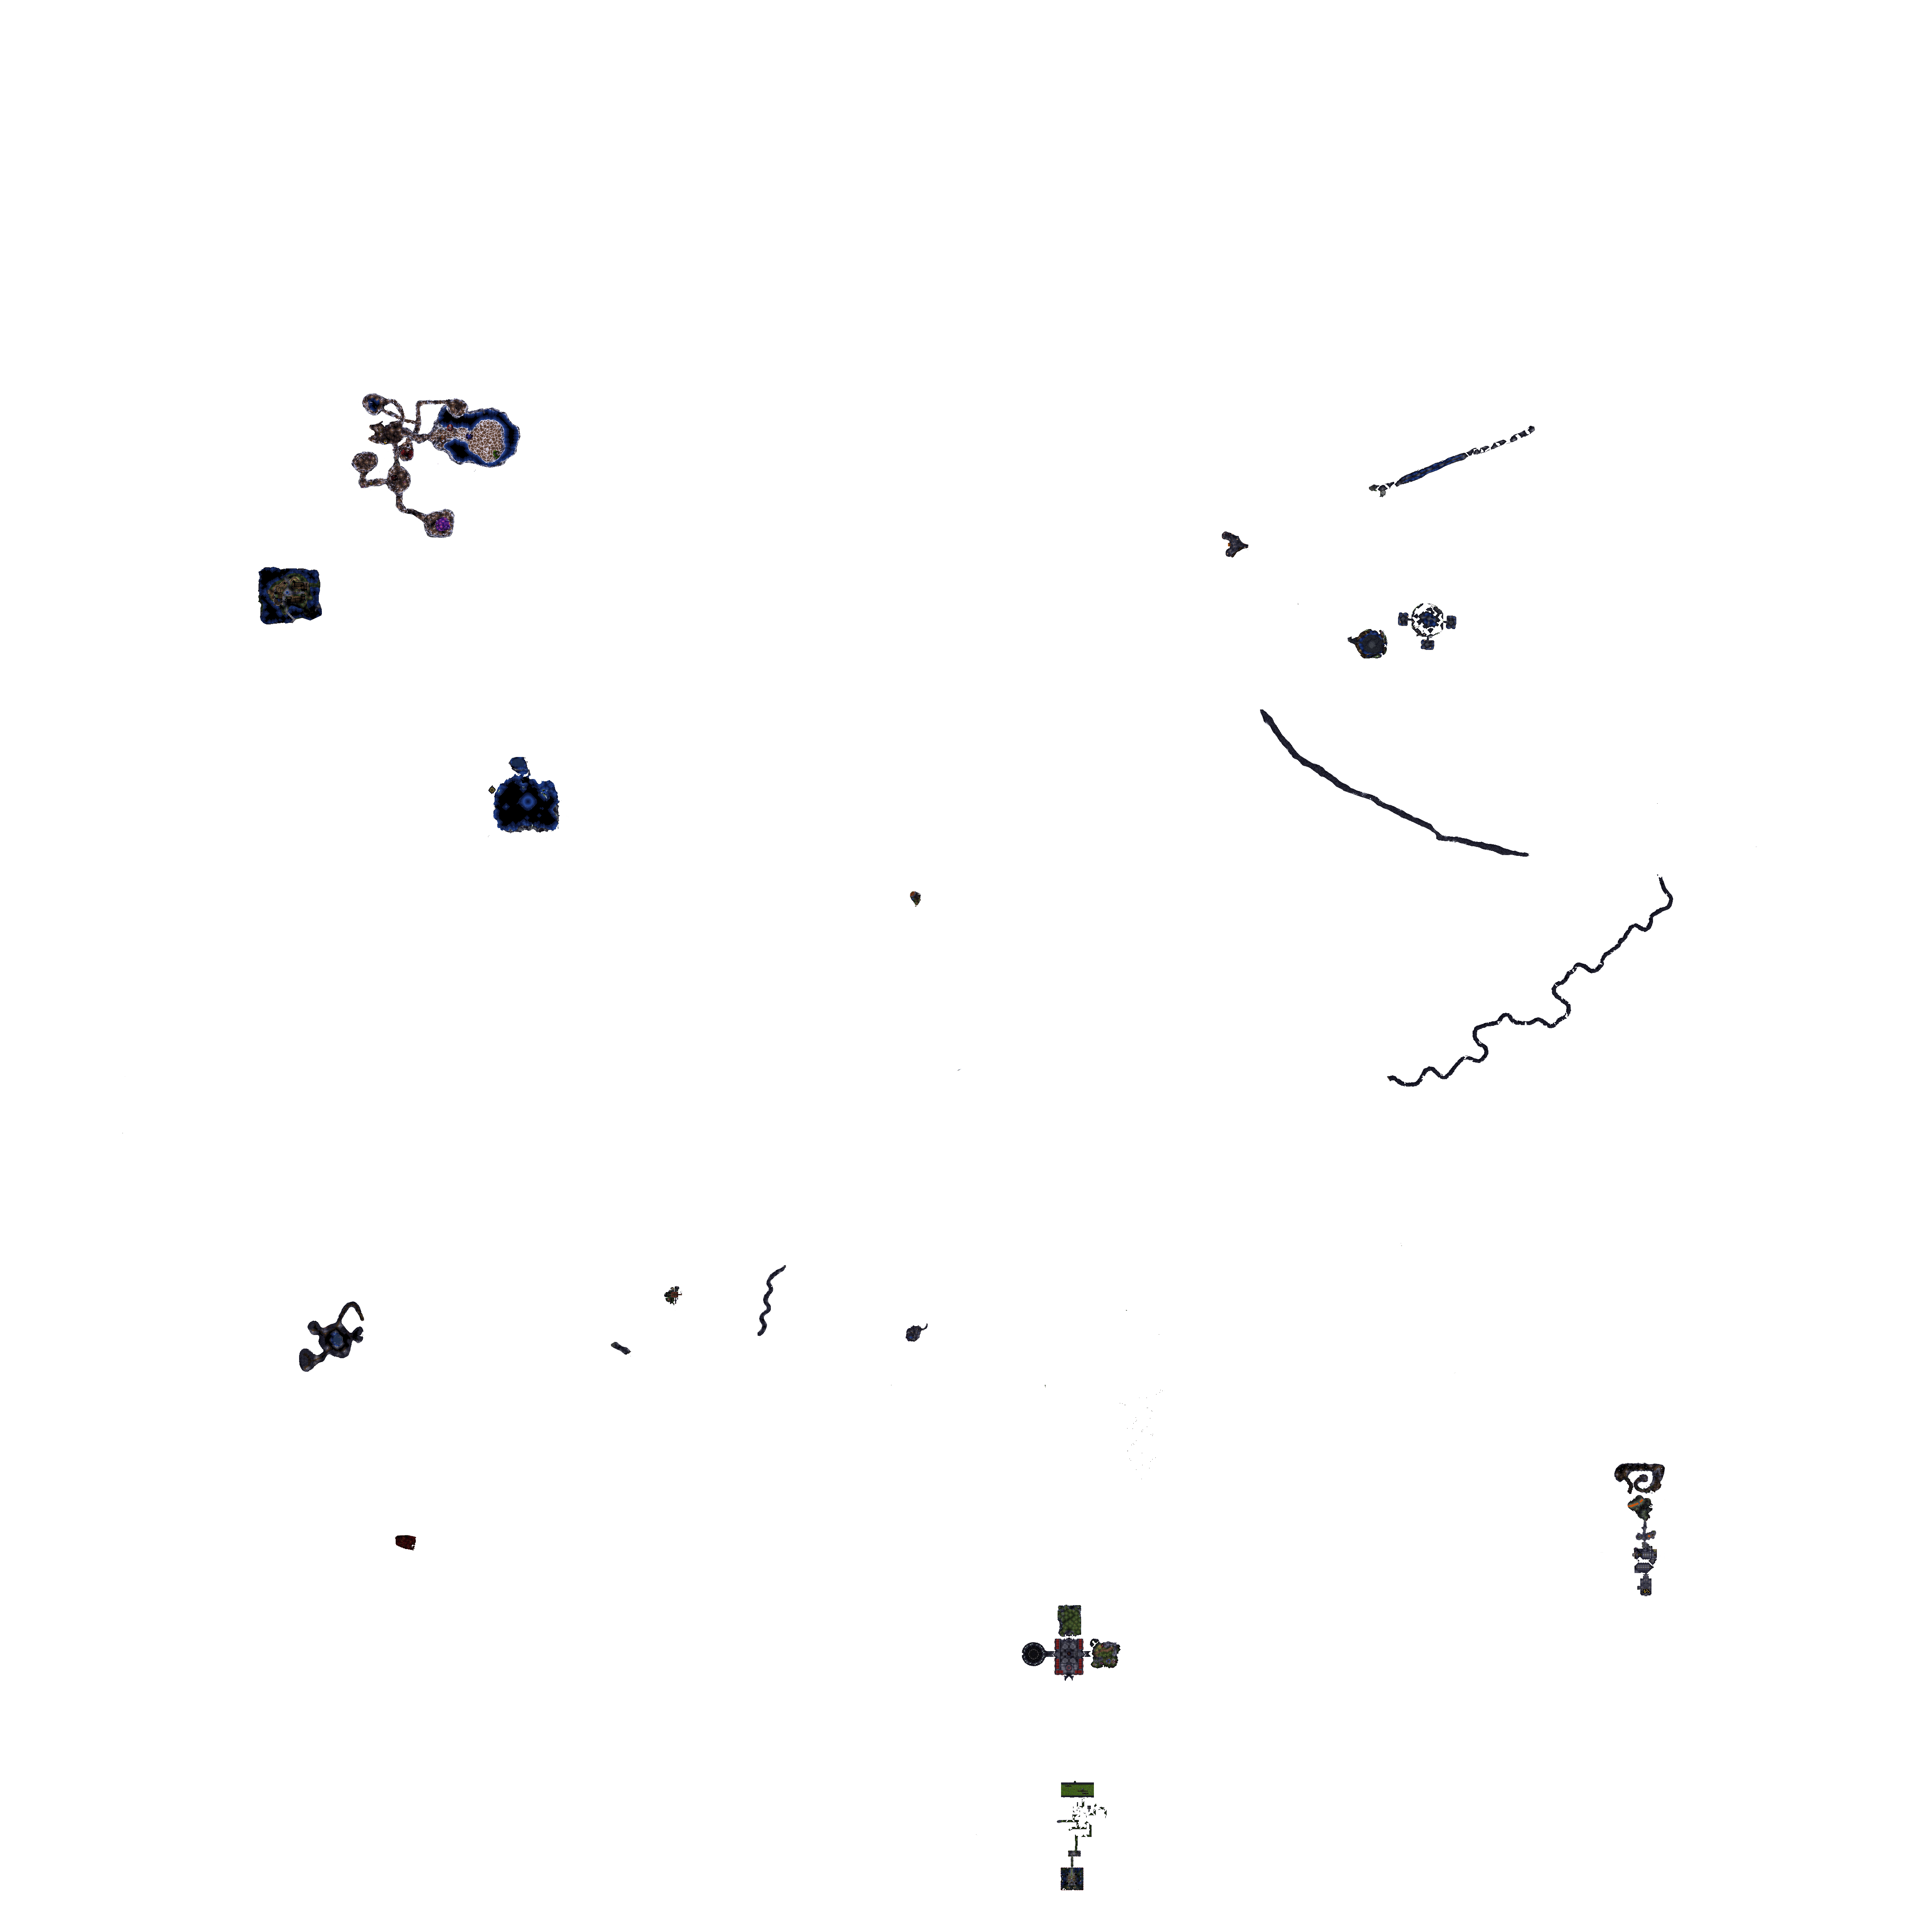
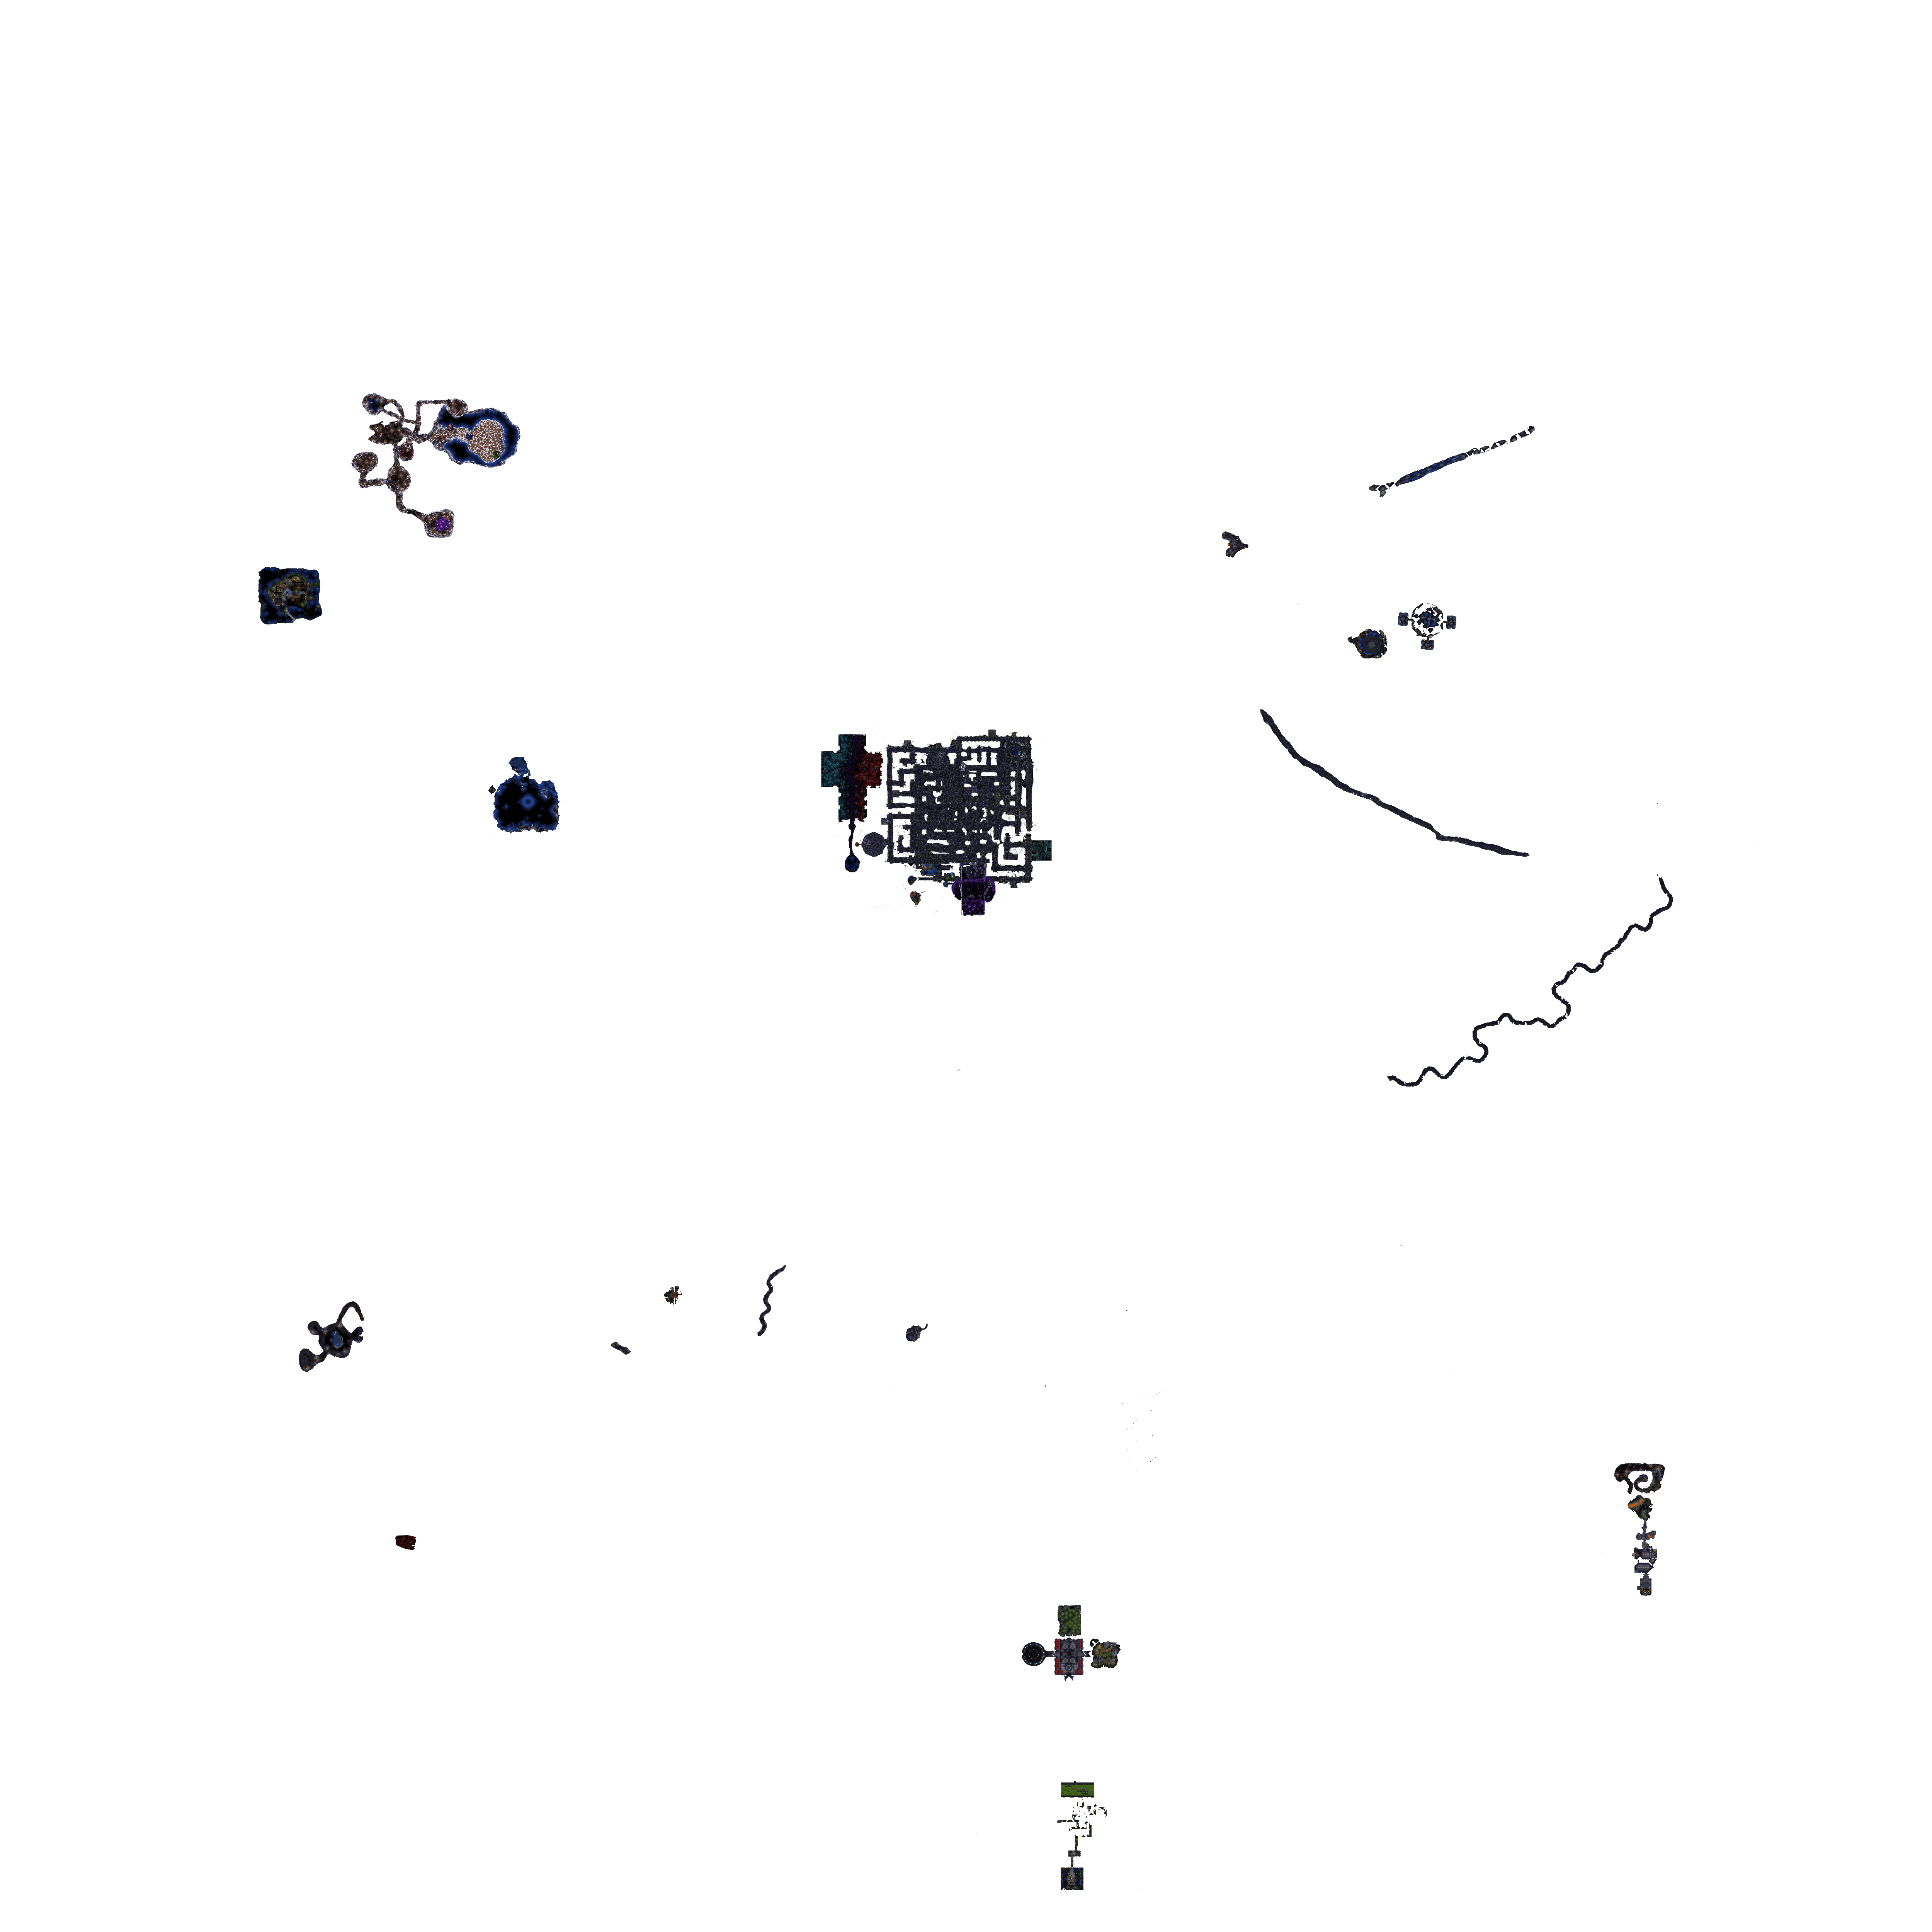
Add f3 underground

Changed region(s): [[0.4056, 0.3744, 0.5616, 0.468]]

diff --git a/Map/data.js b/Map/data.js
@@ -9,7 +9,7 @@ var FLOOR_NAMES = { // var pour permettre la mise à jour depuis Firestore (conf
 const FLOOR_DATA = {
   1: { hasUnderground: true  },
   2: { hasUnderground: true },
-  3: { hasUnderground: false },
+  3: { hasUnderground: true },
 };
 
 const MAP_CALIBRATION = {

diff --git a/journeymap_assembler.py b/journeymap_assembler.py
@@ -15,7 +15,7 @@ except Exception:
 # CONFIGURATION
 # ─────────────────────────────────────────────────────────────
 
-PARENT_DIR = "/home/tchartie/Downloads/hnttkw7"
+PARENT_DIR = ""
 TILES_DIRS = []
 TILES_DIR = ""
 OUTPUT_DIR = ""